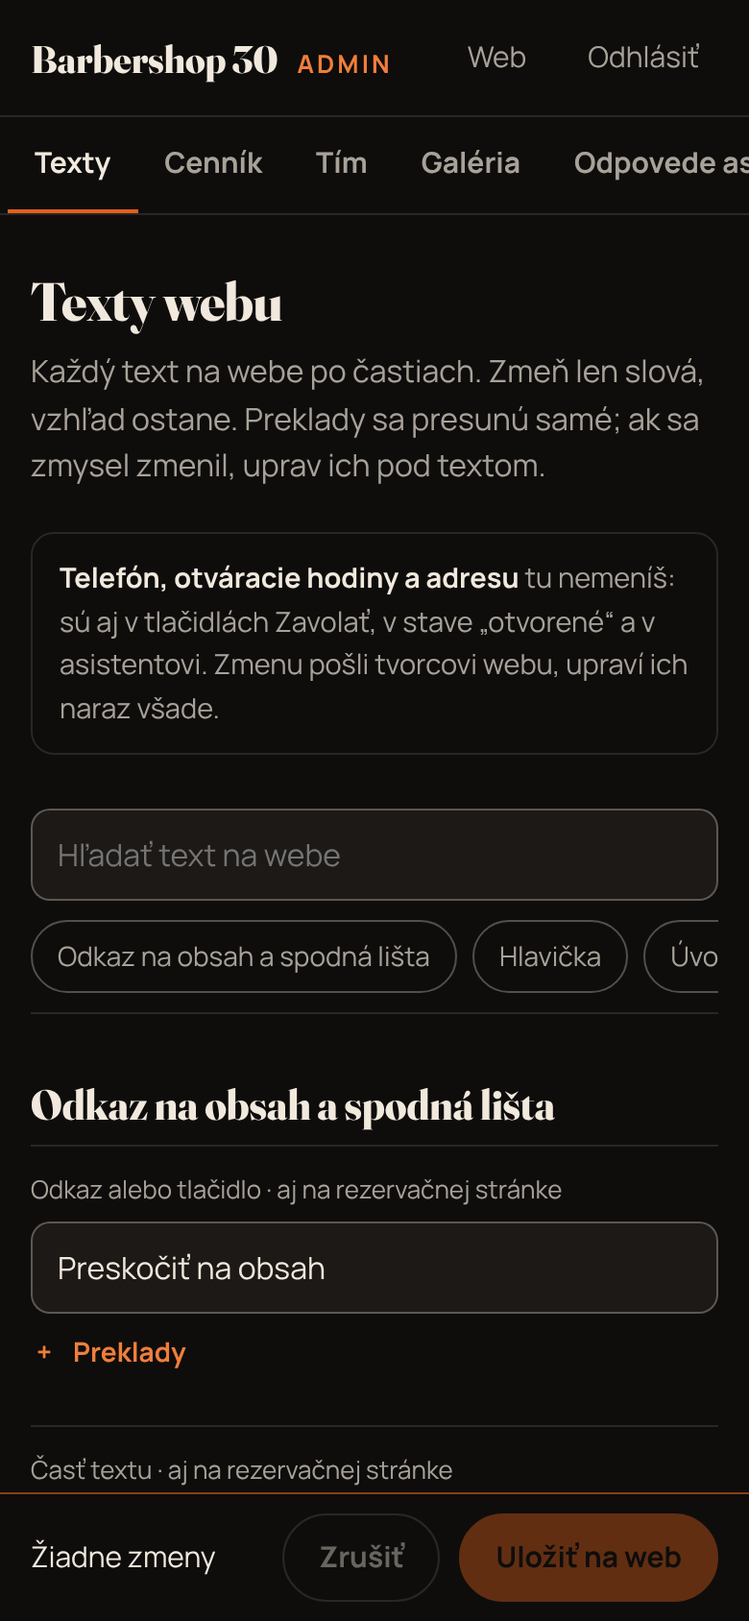
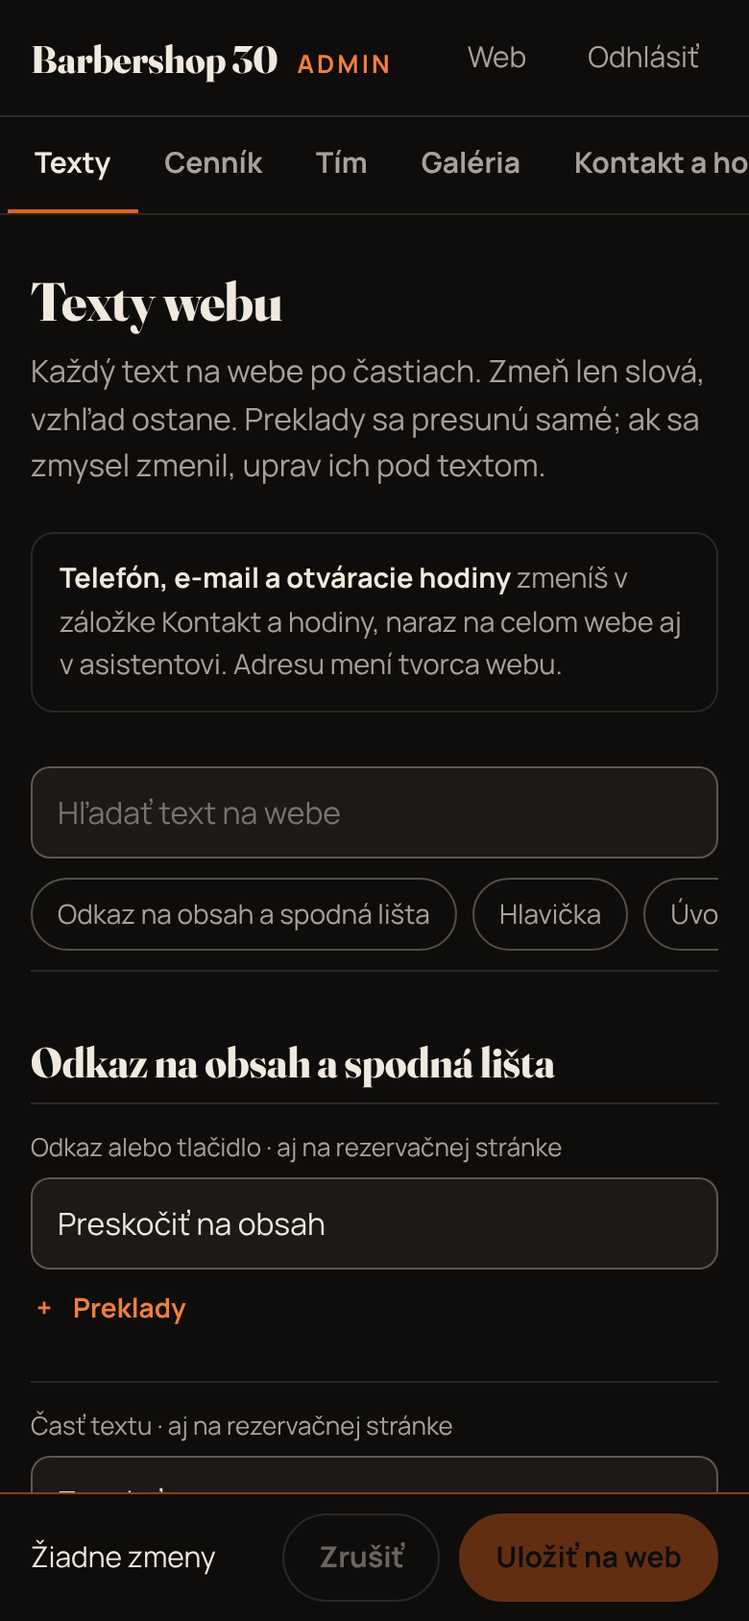
Barbershop 30, admin: kontakt a hodiny naraz na celom webe; kartička: odkaz na ochranu údajov
Záložka Kontakt a hodiny mení telefón, e-mail a otváracie hodiny vo všetkých súboroch
(web, preklady, živý stav, asistent aj jeho server, kartička, vizitka) a pred uložením
ukáže, čo sa zmení. Odkaz Ochrana osobných údajov na kartičke Barbershopu viedol na
neexistujúcu stránku. Validátor otázok berie hodiny z app.js.

diff --git a/barbershop-30/admin/admin.js b/barbershop-30/admin/admin.js
@@ -10,7 +10,8 @@
  *    (asistent/znalosti/barbershop.md) a odpovede asistenta s cenou dá na kontrolu (záložka Odpovede asistenta);
  *  - tím: oba súbory (karta podľa mena), fotky ako WebP a JPEG v dvoch šírkach, zoznam tímu v znalostiach a odpovediach;
  *  - galéria: fotka a popis;
- *  - odpovede asistenta: barbershop-otazky.json a jeho kópia pre web (assets/asistent-otazky.json).
+ *  - odpovede asistenta: barbershop-otazky.json a jeho kópia pre web (assets/asistent-otazky.json);
+ *  - kontakt a hodiny: telefón, e‑mail a otváracie hodiny naraz vo všetkých súboroch, kde sú (KONTAKT nižšie).
  * Odmeny a akcie vernostnej kartičky sú v admine kartičky (odkaz v záložke Kartička).
  */
 const OWNER = 'd8f5s88zjy-art', REPO = 'head-spa-30', BRANCH = 'main';
@@ -21,6 +22,13 @@ const LANGS = ['en', 'uk', 'hu', 'sr', 'pl', 'de', 'cs'];
 const LN = { en: 'Angličtina', uk: 'Ukrajinčina', hu: 'Maďarčina', sr: 'Srbčina', pl: 'Poľština', de: 'Nemčina', cs: 'Čeština' };
 const F = { index: P + 'index.html', rez: P + 'rezervacia.html', md: 'asistent/znalosti/barbershop.md', faq: 'asistent/znalosti/barbershop-otazky.json', faqWeb: P + 'assets/asistent-otazky.json' };
 const NB = ' ';
+/* súbory s telefónom, e‑mailom a otváracími hodinami Barbershopu: web, preklady, asistent (aj server), kartička,
+   vizitka, ukážky; app.js len riadok HOURS (živý stav „otvorené“), CLAUDE.md len hodiny (pravidlo pre asistenta) */
+const APP = P + 'assets/app.js';
+const KONTAKT = [F.index, F.rez, ...LANGS.map((l) => `${P}assets/i18n/${l}.json`), F.md, F.faq, F.faqWeb, APP,
+  P + 'assets/asistent.js', P + 'assets/objednavka.js', P + 'assets/asistent-ukazka.js', P + 'assets/karty.js', P + 'assets/barbershop30.vcf',
+  P + 'karta/index.html', P + 'karta/karta.js', 'vernost/karta/karta.js', 'vernost/lib/jadro.php', 'vernost/ochrana-udajov.html',
+  'asistent/lib/jadro.php', 'asistent/api.php', 'asistent/ochrana-udajov.html', 'CLAUDE.md'];
 const K_KLUC = 'b30.admin';
 
 const $ = (s, r = document) => r.querySelector(s);
@@ -170,11 +178,12 @@ function vstup(p, label, o = {}) {
 async function nacitaj() {
   const ref = await gh(`/git/ref/heads/${BRANCH}`);
   const sha = ref.object.sha;
-  const cesty = [F.index, F.rez, F.md, F.faq, ...LANGS.map((l) => `${P}assets/i18n/${l}.json`)];
+  const cesty = [...new Set([F.index, F.rez, F.md, F.faq, ...LANGS.map((l) => `${P}assets/i18n/${l}.json`), ...KONTAKT])];
   const obsah = await Promise.all(cesty.map((c) => readFile(c, sha)));
   const raw = {}; cesty.forEach((c, i) => { raw[c] = obsah[i]; });
   const i18n = {}; LANGS.forEach((l) => { i18n[l] = JSON.parse(raw[`${P}assets/i18n/${l}.json`]); });
   base = { sha, raw, i18n, faq: JSON.parse(raw[F.faq]) };
+  base.kontakt = kontaktZoSuborov(raw);
   priprav();
 }
 
@@ -207,13 +216,13 @@ function priprav() {
 }
 
 /* ---------------- záložky ---------------- */
-const TABY = { texty: 'Texty', cennik: 'Cenník', tim: 'Tím', galeria: 'Galéria', odpovede: 'Odpovede asistenta', karta: 'Kartička' };
+const TABY = { texty: 'Texty', cennik: 'Cenník', tim: 'Tím', galeria: 'Galéria', kontakt: 'Kontakt a hodiny', odpovede: 'Odpovede asistenta', karta: 'Kartička' };
 function kresli() {
   const nav = $('#tabs .in');
   nav.replaceChildren(...Object.entries(TABY).map(([k, n]) => h('button', { type: 'button', role: 'tab', 'aria-selected': String(k === tab), 'data-tab': k, onclick: () => { tab = k; ukaz(); } }, n)));
   const app = $('#app');
   app.replaceChildren(...Object.keys(TABY).map((k) => h('section', { class: 'tab', 'data-tab': k, hidden: k !== tab })));
-  textyTab(); cennikTab(); timTab(); galeriaTab(); odpovedeTab(); kartaTab();
+  textyTab(); cennikTab(); timTab(); galeriaTab(); kontaktTab(); odpovedeTab(); kartaTab();
   ukaz(); obnov();
 }
 function ukaz() {
@@ -238,7 +247,7 @@ function textyTab() {
   const chips = h('div', { class: 'chips' });
   const zoz = h('div');
   s.append(h('h1', {}, 'Texty webu'), h('p', { class: 'lead' }, 'Každý text na webe po častiach. Zmeň len slová, vzhľad ostane. Preklady sa presunú samé; ak sa zmysel zmenil, uprav ich pod textom.'),
-    h('p', { class: 'note' }, h('b', {}, 'Telefón, otváracie hodiny a adresu '), 'tu nemeníš: sú aj v tlačidlách Zavolať, v stave „otvorené“ a v asistentovi. Zmenu pošli tvorcovi webu, upraví ich naraz všade.'),
+    h('p', { class: 'note' }, h('b', {}, 'Telefón, e‑mail a otváracie hodiny '), 'zmeníš v záložke Kontakt a hodiny, naraz na celom webe aj v asistentovi. Adresu mení tvorca webu.'),
     h('div', { class: 'tools' }, hladaj, chips), zoz);
   const skup = new Map(), ramec = new Map();
   for (const x of base.ix.seg) {
@@ -414,6 +423,141 @@ function kartaTab() {
       h('li', {}, 'Odmeny (koľko bodov za čo) a akcie si nastavíš sám v admine kartičky.')));
 }
 
+/* ---------------- kontakt a hodiny ----------------
+   Telefón (mobil 09xx xxx xxx v tvaroch 0951 267 203, +421 951 267 203, +421951267203), e‑mail a otváracie hodiny
+   (Po–Pi a sobota, celé hodiny, nedeľa zatvorené) sa zmenia vo všetkých súboroch KONTAKT naraz. Hodiny: čas sa
+   mení podľa úlohy. Dvojica „od–do“ (9:00–19:00, od 9:00 do 19:00, 9:00 és 19:00 …) je pracovný deň alebo sobota;
+   osamotený čas zatvárania patrí svojmu dňu; osamotený čas otvárania, ktorý je pre oba dni rovnaký, sa pri
+   rozdielnych nových hodinách nedá určiť, dostane čas pracovných dní a ide na kontrolu. Iné časy (termíny v ukážke,
+   príklad v pokynoch asistenta) ostanú, ak sa nezhodujú s otváracími hodinami. */
+const telTvary = (intl) => { const d = intl.slice(4); return { intl, medz: `+421 ${d.slice(0, 3)} ${d.slice(3, 6)} ${d.slice(6)}`, lok: `0${d.slice(0, 3)} ${d.slice(3, 6)} ${d.slice(6)}`, holy: `0${d}` }; };
+function kontaktZoSuborov(raw) {
+  const ix = raw[F.index] || '';
+  const intl = (ix.match(/href="tel:(\+421\d{9})"/) || [])[1];
+  const email = (ix.match(/href="mailto:([^"?]+)"/) || [])[1] || '';
+  // hodiny z app.js (živý stav „otvorené“): Po–Pi rovnaké, sobota, nedeľa zatvorené; iné rozloženie admin nemení
+  const hm = (raw[APP] || '').match(/const HOURS = \{([^}]*)\};/);
+  let hod = null;
+  if (hm) {
+    const d = {};
+    for (const m of hm[1].matchAll(/(\d): (null|\[(\d+), (\d+)\])/g)) d[m[1]] = m[2] === 'null' ? null : [+m[3], +m[4]];
+    const w = d[1];
+    if (w && [2, 3, 4, 5].every((i) => d[i] && d[i][0] === w[0] && d[i][1] === w[1]) && d[6] && d[0] === null) hod = { w, s: d[6] };
+  }
+  return { tel: intl ? telTvary(intl) : null, email, hod };
+}
+function nahradHodiny(text, st, nv) {
+  const T = /(?<![\d.:])(0?)(\d{1,2}):00(?!\d|:\d)/g;
+  const tok = [...text.matchAll(T)].map((m) => ({ at: m.index, end: m.index + m[0].length, h: Number(m[2]), pad: m[1] === '0' }));
+  const role = new Array(tok.length).fill(null), nejasne = [];
+  const par = (a, b) => (a === st.w[0] && b === st.w[1] ? 'w' : a === st.s[0] && b === st.s[1] ? 's' : null);
+  for (let i = 0; i < tok.length - 1; i++) {
+    const medzi = text.slice(tok[i].end, tok[i + 1].at);
+    if (!/^[^\d<>{}\n]{1,16}$/.test(medzi)) continue;
+    const d = par(tok[i].h, tok[i + 1].h);
+    if (d) { role[i] = [d, 0]; role[i + 1] = [d, 1]; i++; }
+  }
+  tok.forEach((t, i) => {
+    if (role[i]) return;
+    const kand = [['w', 0], ['w', 1], ['s', 0], ['s', 1]].filter(([d, k]) => st[d][k] === t.h);
+    if (!kand.length) return;
+    if (new Set(kand.map(([d, k]) => nv[d][k])).size > 1) nejasne.push({ okolie: norm(text.slice(Math.max(0, t.at - 50), t.end + 25)) });
+    role[i] = kand[0];
+  });
+  let n = 0;
+  for (let i = tok.length - 1; i >= 0; i--) {
+    if (!role[i]) continue;
+    const [d, k] = role[i], v = nv[d][k];
+    if (v === tok[i].h) continue;
+    text = text.slice(0, tok[i].at) + (tok[i].pad ? String(v).padStart(2, '0') : String(v)) + ':00' + text.slice(tok[i].end);
+    n++;
+  }
+  return { text, n, nejasne };
+}
+function kontaktNahrad(cesta, text, k) {
+  const st = k.st, nejasne = [];
+  let n = 0;
+  if (text == null) return { text, n, nejasne };
+  const vsade = (a, b) => { const c = text.split(a).length - 1; if (c) { n += c; text = text.split(a).join(b); } };
+  if (k.tel) {
+    // medzery v čísle ostanú, aké boli (obyčajná alebo pevná)
+    const re = (x) => new RegExp(x.split(' ').map(reEsc).join('([ \\u00a0])'), 'g');
+    for (const t of ['medz', 'lok']) text = text.replace(re(st.tel[t]), (...m) => { n++; let i = 1; return k.tel[t].replace(/ /g, () => m[i++]); });
+    vsade(st.tel.intl, k.tel.intl); vsade(st.tel.holy, k.tel.holy);
+  }
+  if (k.email) vsade(st.email, k.email);
+  if (k.hod) {
+    if (cesta === APP) {
+      const w = `[${k.hod.w.join(', ')}]`;
+      text = text.replace(/const HOURS = \{[^}]*\};/, () => { n++; return `const HOURS = { 1: ${w}, 2: ${w}, 3: ${w}, 4: ${w}, 5: ${w}, 6: [${k.hod.s.join(', ')}], 0: null };`; })
+        .replace(/\(Po–Pi \d+–\d+, So \d+–\d+,/, `(Po–Pi ${k.hod.w[0]}–${k.hod.w[1]}, So ${k.hod.s[0]}–${k.hod.s[1]},`);
+    } else {
+      const r = nahradHodiny(text, st.hod, k.hod);
+      text = r.text; n += r.n; r.nejasne.forEach((x) => nejasne.push({ cesta, ...x }));
+    }
+  }
+  return { text, n, nejasne };
+}
+let kp = null;   // polia záložky Kontakt a hodiny
+function kontaktNove() {
+  if (!kp || !base || !base.kontakt) return null;
+  const st = base.kontakt, z = { popis: [], st };
+  const tel = norm(kp.tel.value), email = norm(kp.email.value);
+  if (st.tel && tel !== st.tel.lok) {
+    const d = tel.replace(/\D/g, '');
+    if (!/^09\d{8}$/.test(d)) z.chyba = 'Telefón napíš ako mobil v tvare 0951 267 203. Iné číslo (pevnú linku) zmení tvorca webu.';
+    else if (`0${d.slice(1)}` !== st.tel.holy) { z.tel = telTvary(`+421${d.slice(1)}`); z.popis.push(`Kontakt: telefón ${z.tel.lok}`); }
+  }
+  if (st.email && email !== st.email) {
+    if (!/^[^\s@"<>]+@[^\s@"<>]+\.[a-z]{2,}$/i.test(email)) z.chyba = 'E‑mail nevyzerá správne (napr. info@barbershop30.sk).';
+    else { z.email = email; z.popis.push(`Kontakt: e‑mail ${email}`); }
+  }
+  if (st.hod && kp.wOd) {
+    const hod = { w: [+kp.wOd.value, +kp.wDo.value], s: [+kp.sOd.value, +kp.sDo.value] };
+    if (hod.w[0] >= hod.w[1] || hod.s[0] >= hod.s[1]) z.chyba = 'Čas „od“ musí byť skôr ako čas „do“.';
+    else if (String(hod.w) !== String(st.hod.w) || String(hod.s) !== String(st.hod.s)) { z.hod = hod; z.popis.push(`Kontakt: hodiny Po–Pi ${hod.w[0]}:00–${hod.w[1]}:00, So ${hod.s[0]}:00–${hod.s[1]}:00`); }
+  }
+  if (z.chyba) z.popis = ['Kontakt: oprav údaje'];
+  return z.popis.length ? z : null;
+}
+let nahladCas = 0;
+function kontaktNahlad() {
+  clearTimeout(nahladCas);
+  nahladCas = setTimeout(() => {
+    const k = kontaktNove();
+    kp.warn.hidden = !(k && k.chyba); kp.warn.textContent = (k && k.chyba) || '';
+    kp.nahlad.replaceChildren();
+    if (k && !k.chyba) {
+      let spolu = 0; const sub = [], nej = [];
+      for (const c of KONTAKT) { const r = kontaktNahrad(c, base.raw[c], k); if (r.n) { spolu += r.n; sub.push(`${c.replace(P, '')} (${r.n})`); } nej.push(...r.nejasne.filter((x) => x.cesta !== F.faqWeb)); }
+      kp.nahlad.append(h('div', { class: 'note' }, h('b', {}, `Zmení sa ${spolu} ${spolu === 1 ? 'miesto' : spolu < 5 ? 'miesta' : 'miest'} v ${sub.length} súboroch.`),
+        h('details', { class: 'tr' }, h('summary', {}, 'Ktoré súbory'), h('p', {}, sub.join(', ')))));
+      if (nej.length) kp.nahlad.append(h('div', { class: 'note' }, h('b', {}, 'Na kontrolu: '), `tieto vety spomínajú čas otvorenia bez dňa, dostanú čas pracovných dní (${k.hod.w[0]}:00). Ulož zmenu a potom ich oprav v záložke Odpovede asistenta alebo daj vedieť tvorcovi webu.`,
+        h('ul', {}, nej.slice(0, 12).map((x) => h('li', {}, `…${x.okolie}…`)))));
+    }
+    obnov();
+  }, 150);
+}
+function kontaktTab() {
+  const s = sec('kontakt'), st = base.kontakt;
+  s.append(h('h1', {}, 'Kontakt a hodiny'), h('p', { class: 'lead' }, 'Telefón, e‑mail a otváracie hodiny sú na webe na mnohých miestach: tlačidlá Zavolať, pätička, živý stav „otvorené“, vizitka, kartička aj odpovede asistenta Barber vo všetkých jazykoch. Tu ich zmeníš naraz všade.'));
+  const pole2 = (el, popis, pozn, orig) => { el.addEventListener('input', () => { el.classList.toggle('changed', norm(el.value) !== orig); kontaktNahlad(); }); return h('div', { class: 'f' }, h('label', {}, popis, pozn ? h('small', {}, pozn) : null), el); };
+  kp = { tel: h('input', { type: 'tel', inputmode: 'tel', autocomplete: 'off' }), email: h('input', { type: 'email', autocomplete: 'off', spellcheck: 'false' }), warn: h('p', { class: 'warn', hidden: true, role: 'status' }), nahlad: h('div') };
+  kp.tel.value = st.tel ? st.tel.lok : ''; kp.email.value = st.email;
+  s.append(st.tel ? pole2(kp.tel, 'Telefón', 'mobil, napr. 0951 267 203', st.tel.lok) : h('p', { class: 'warn' }, 'Telefón sa na webe nenašiel v očakávanom tvare, zmení ho tvorca webu.'),
+    st.email ? pole2(kp.email, 'E‑mail', null, st.email) : null);
+  if (st.hod) {
+    const vyber = (v, od) => { const el = h('select', { 'aria-label': od }); for (let i = 5; i <= 23; i++) el.append(h('option', { value: i }, `${i}:00`)); el.value = String(v); el.addEventListener('change', () => { el.classList.toggle('changed', +el.value !== v); kontaktNahlad(); }); return el; };
+    kp.wOd = vyber(st.hod.w[0], 'Pondelok až piatok od'); kp.wDo = vyber(st.hod.w[1], 'Pondelok až piatok do');
+    kp.sOd = vyber(st.hod.s[0], 'Sobota od'); kp.sDo = vyber(st.hod.s[1], 'Sobota do');
+    s.append(h('h2', {}, 'Otváracie hodiny'),
+      h('div', { class: 'f' }, h('label', {}, 'Pondelok až piatok'), h('div', { class: 'row' }, h('div', { class: 'f' }, h('label', { class: 'mini' }, 'od'), kp.wOd), h('div', { class: 'f' }, h('label', { class: 'mini' }, 'do'), kp.wDo))),
+      h('div', { class: 'f' }, h('label', {}, 'Sobota'), h('div', { class: 'row' }, h('div', { class: 'f' }, h('label', { class: 'mini' }, 'od'), kp.sOd), h('div', { class: 'f' }, h('label', { class: 'mini' }, 'do'), kp.sDo))),
+      h('p', { class: 'kind' }, 'Nedeľa zatvorené. Len celé hodiny. Inú zmenu (nedeľa, prestávka, sviatky) a novú adresu pošli tvorcovi webu.'));
+  } else s.append(h('p', { class: 'warn' }, 'Otváracie hodiny na webe nemajú jednoduché rozloženie (Po–Pi rovnako, sobota, nedeľa zatvorené), zmení ich tvorca webu.'));
+  s.append(kp.warn, kp.nahlad, h('p', { class: 'note' }, h('b', {}, 'Nezabudni: '), 'telefón a hodiny zmeň aj v rezervačnom systéme na barbershop30.sk a na Google (profil firmy).'));
+}
+
 /* ---------------- fotky: zmenšenie v prehliadači na WebP a JPEG ---------------- */
 async function priprauFoto(subor, sirky) {
   const url = URL.createObjectURL(subor);
@@ -437,6 +581,8 @@ function zoznamZmien() {
   for (const p of polia) if (zmenene(p)) z.push(p.label);
   tim.forEach((m) => { if (m.nove && m.p && norm(m.p.meno.el && m.p.meno.el.value)) z.push(`Tím: nový člen ${norm(m.p.meno.el.value)}`); if (m.zmaz) z.push(`Tím: odstrániť ${m.meno}`); if (m.foto && !m.nove) z.push(`Tím: nová fotka ${m.meno}`); });
   gal.forEach((g) => { if (g.foto) z.push(`Galéria: nová fotka ${short(g.alt, 30)}`); });
+  const k = kontaktNove();
+  if (k) z.push(...k.popis);
   return z;
 }
 function obnov() {
@@ -620,11 +766,18 @@ function zostav() {
   for (const f of [F.index, F.rez]) if (zm[f].length) html[f] = nahrad(html[f], zm[f]);
   zostavaTexty = new Set([...rozober(html[F.index]).seg, ...rozober(html[F.rez]).seg].map((x) => norm(x.text)));
   for (const [stary, novy, tr] of presuny) prekladyPresun(i18n, stary, novy, tr);
-  for (const f of [F.index, F.rez]) if (html[f] !== base.raw[f]) subory[f] = { text: html[f] };
-  for (const l of LANGS) { const s = JSON.stringify(i18n[l]); if (s !== JSON.stringify(base.i18n[l])) subory[`${P}assets/i18n/${l}.json`] = { text: s }; }
-  if (md !== base.raw[F.md]) subory[F.md] = { text: md };
-  if (faqZmena) { subory[F.faq] = { text: JSON.stringify(faq, null, 1) + '\n' }; subory[F.faqWeb] = { text: JSON.stringify(faq) + '\n' }; }
-  return { subory, nove, faq };
+  const out = { [F.index]: html[F.index], [F.rez]: html[F.rez], [F.md]: md };
+  for (const l of LANGS) { const s = JSON.stringify(i18n[l]); out[`${P}assets/i18n/${l}.json`] = s !== JSON.stringify(base.i18n[l]) ? s : base.raw[`${P}assets/i18n/${l}.json`]; }
+  if (faqZmena) { out[F.faq] = JSON.stringify(faq, null, 1) + '\n'; out[F.faqWeb] = JSON.stringify(faq) + '\n'; }
+  // kontakt a hodiny: až nakoniec, v hotových textoch všetkých súborov (aj v práve zmenených)
+  const k = kontaktNove();
+  if (k && k.chyba) throw Object.assign(new Error(k.chyba), { user: true });
+  if (k) {
+    for (const c of KONTAKT) if (!(c in out)) out[c] = base.raw[c];
+    for (const c of KONTAKT) out[c] = kontaktNahrad(c, out[c], k).text;
+  }
+  for (const [c, t] of Object.entries(out)) if (t !== base.raw[c]) subory[c] = { text: t };
+  return { subory, nove, faq: k ? JSON.parse(out[F.faq]) : faq };
 }
 
 /* tím v znalostiach asistenta a v odpovediach: zoznam mien, počet a odpovede o jednotlivých členoch */
@@ -637,7 +790,7 @@ function timDoZnalosti(faq, zmenMd) {
   const adrian = (m) => (m === 'Adrián' ? ' (v rezervačnom systéme Adrian)' : '');
   zmenMd((md) => md.replace(/^Barberi: .*$/m, `Barberi: ${barberi.map((m) => m + adrian(m)).join(', ')}.${barberky.length ? ` ${barberky.length > 1 ? 'Barberky' : 'Barberka'}: ${barberky.join(', ')}.` : ''}`));
   const REZ = 'https://www.barbershop30.sk/rezervacia';
-  const TEL = 'Zavolaj nám na 0951 267 203, v pracovné dni od 9:00 do 19:00 telefón vždy zdvihneme.';
+  const TEL = (faq.otazky.map((o) => (o.a.match(/Zavolaj nám na [^.]*?telefón vždy zdvihneme\./) || [])[0]).find(Boolean)) || `Zavolaj nám na ${base.kontakt.tel ? base.kontakt.tel.lok : ''}.`;
   const nastav = (id, a) => { const o = faq.otazky.find((x) => x.id === id); if (o) o.a = a; };
   nastav('tim', `V tíme sú barberi ${zoznam(barberi)}${barberky.length ? ` a ${barberky.length > 1 ? 'barberky' : 'barberka'} ${zoznam(barberky)}` : ''}. Svojho človeka si vyberieš v rezervácii.`);
   nastav('kolko-barberov', `Na webe je predstavených ${clenovia.length} ľudí: ${barberi.length} ${barberi.length === 1 ? 'barber' : barberi.length < 5 ? 'barberi' : 'barberov'}${barberky.length ? ` a ${barberky.length === 1 ? 'barberka ' + barberky[0] : barberky.length + ' barberky'}` : ''}. Strihá sa v 8 kreslách v troch miestnostiach.`);

diff --git a/barbershop-30/karta/karta.js b/barbershop-30/karta/karta.js
@@ -8,6 +8,8 @@ import { qrSvg } from './qr.js';
 
 const D = document.documentElement.dataset;
 const API = (/^(localhost|127\.0\.0\.1)$/.test(location.hostname) && D.apiLokal) || D.api || '../api/';
+// ochrana údajov je pri API (spoločná pre obe prevádzky), aj keď je kartička na webe Barbershopu
+const OCHRANA = new URL('../ochrana-udajov.html', new URL(API, location.href)).href;
 const P = D.prevadzka || '';                       // prevádzka stránky (web Barbershopu); bez nej len kartička z odkazu
 const NAZOV = { barbershop: 'Barbershop 30', headspa: 'HEAD SPA 30' }[P] || '';
 const $obsah = document.getElementById('obsah');
@@ -86,7 +88,7 @@ function zalozenie() {
     el('label', { class: 'prepinac' }, chcem, el('span', {}, 'Áno, chcem vernostnú kartičku. Údaje použijete len na ňu.')),
     el('label', { class: 'prepinac' }, spravy, el('span', {}, 'Chcem dostávať správy o akciách. Môžem to kedykoľvek vypnúť.')),
     pasca, el('div', { class: 'tlacidla' }, tl), sprava,
-    el('p', { class: 'pozn' }, el('a', { href: new URL('../ochrana-udajov.html', new URL(API, location.href)).href, target: '_blank', rel: 'noopener' }, 'Ochrana údajov')));
+    el('p', { class: 'pozn' }, el('a', { href: OCHRANA, target: '_blank', rel: 'noopener' }, 'Ochrana údajov')));
   const [telText, telHref] = TELEFON[P] || ['', ''];
   const mimo = () => box.replaceChildren(el('h2', { id: 'zaloz-h' }, 'Kartičky práve spúšťame'),
     el('p', { class: 'pozn' }, 'Kartičku ti zatiaľ založíme na recepcii.' + (telText ? ` Zavolaj nám na ${telText}.` : '')),
@@ -186,7 +188,7 @@ function vykresli(d, zPamate) {
       zPamate ? null : zrusenie(d)),
     el('div', { class: 'pata' },
       el('span', {}, d.nazov, ' · ', el('a', { href: `tel:${d.tel}` }, d.tel_text)),
-      el('span', {}, el('a', { href: d.web, rel: 'noopener' }, 'Webová stránka'), ' · ', el('a', { href: '../ochrana-udajov.html' }, 'Ochrana osobných údajov'))),
+      el('span', {}, el('a', { href: d.web, rel: 'noopener' }, 'Webová stránka'), ' · ', el('a', { href: OCHRANA }, 'Ochrana osobných údajov'))),
   ];
   $obsah.replaceChildren(...casti.filter(Boolean));
   $obsah.setAttribute('aria-busy', 'false');

diff --git a/vernost/karta/karta.js b/vernost/karta/karta.js
@@ -8,6 +8,8 @@ import { qrSvg } from './qr.js';
 
 const D = document.documentElement.dataset;
 const API = (/^(localhost|127\.0\.0\.1)$/.test(location.hostname) && D.apiLokal) || D.api || '../api/';
+// ochrana údajov je pri API (spoločná pre obe prevádzky), aj keď je kartička na webe Barbershopu
+const OCHRANA = new URL('../ochrana-udajov.html', new URL(API, location.href)).href;
 const P = D.prevadzka || '';                       // prevádzka stránky (web Barbershopu); bez nej len kartička z odkazu
 const NAZOV = { barbershop: 'Barbershop 30', headspa: 'HEAD SPA 30' }[P] || '';
 const $obsah = document.getElementById('obsah');
@@ -86,7 +88,7 @@ function zalozenie() {
     el('label', { class: 'prepinac' }, chcem, el('span', {}, 'Áno, chcem vernostnú kartičku. Údaje použijete len na ňu.')),
     el('label', { class: 'prepinac' }, spravy, el('span', {}, 'Chcem dostávať správy o akciách. Môžem to kedykoľvek vypnúť.')),
     pasca, el('div', { class: 'tlacidla' }, tl), sprava,
-    el('p', { class: 'pozn' }, el('a', { href: new URL('../ochrana-udajov.html', new URL(API, location.href)).href, target: '_blank', rel: 'noopener' }, 'Ochrana údajov')));
+    el('p', { class: 'pozn' }, el('a', { href: OCHRANA, target: '_blank', rel: 'noopener' }, 'Ochrana údajov')));
   const [telText, telHref] = TELEFON[P] || ['', ''];
   const mimo = () => box.replaceChildren(el('h2', { id: 'zaloz-h' }, 'Kartičky práve spúšťame'),
     el('p', { class: 'pozn' }, 'Kartičku ti zatiaľ založíme na recepcii.' + (telText ? ` Zavolaj nám na ${telText}.` : '')),
@@ -186,7 +188,7 @@ function vykresli(d, zPamate) {
       zPamate ? null : zrusenie(d)),
     el('div', { class: 'pata' },
       el('span', {}, d.nazov, ' · ', el('a', { href: `tel:${d.tel}` }, d.tel_text)),
-      el('span', {}, el('a', { href: d.web, rel: 'noopener' }, 'Webová stránka'), ' · ', el('a', { href: '../ochrana-udajov.html' }, 'Ochrana osobných údajov'))),
+      el('span', {}, el('a', { href: d.web, rel: 'noopener' }, 'Webová stránka'), ' · ', el('a', { href: OCHRANA }, 'Ochrana osobných údajov'))),
   ];
   $obsah.replaceChildren(...casti.filter(Boolean));
   $obsah.setAttribute('aria-busy', 'false');

diff --git a/barbershop-30/admin/index.html b/barbershop-30/admin/index.html
@@ -42,9 +42,11 @@ h2{font-family:'Fraunces',Georgia,serif;font-weight:800;font-size:22px;line-heig
 .f{margin:0 0 14px}
 .f>label{display:block;font-weight:700;font-size:14.5px;margin:0 0 6px}
 .f>label small{font-weight:400;color:var(--muted);margin-left:6px}
-input[type=text],input[type=number],input[type=password],input[type=search],textarea{width:100%;min-height:48px;background:var(--field);color:var(--text);border:1px solid var(--line-2);border-radius:10px;padding:11px 13px;font:16px/1.5 'Manrope',sans-serif}
+.f>label.mini{font-weight:400;color:var(--muted);font-size:13.5px;margin-bottom:4px}
+input[type=text],input[type=number],input[type=password],input[type=search],input[type=tel],input[type=email],select,textarea{width:100%;min-height:48px;background:var(--field);color:var(--text);border:1px solid var(--line-2);border-radius:10px;padding:11px 13px;font:16px/1.5 'Manrope',sans-serif}
 textarea{resize:vertical;display:block;min-height:48px;field-sizing:content;max-height:60vh}
-input:focus,textarea:focus{outline:none;border-color:var(--lamp)}
+input:focus,select:focus,textarea:focus{outline:none;border-color:var(--lamp)}
+select{appearance:none;background-image:linear-gradient(45deg,transparent 50%,var(--lamp-2) 50%),linear-gradient(135deg,var(--lamp-2) 50%,transparent 50%);background-position:calc(100% - 20px) 50%,calc(100% - 14px) 50%;background-size:6px 6px;background-repeat:no-repeat;padding-right:36px}
 .changed{border-color:var(--lamp)!important;background-color:#26180f!important}
 .row{display:grid;gap:0 12px;grid-template-columns:repeat(auto-fit,minmax(140px,1fr))}
 .btn{display:inline-flex;align-items:center;justify-content:center;gap:8px;min-height:46px;padding:0 18px;border:1px solid var(--lamp);background:var(--lamp);color:var(--bg);font-weight:700;font-size:15px;border-radius:999px;cursor:pointer;text-decoration:none;white-space:nowrap}

diff --git a/barbershop-30/docs/CHECKS.md b/barbershop-30/docs/CHECKS.md
@@ -498,3 +498,25 @@ Emulácia prehliadača proti falošnému rezervačnému systému; živý systém
 - Neoverené: skutočný GitHub (kľúč nemám a do `main` sa bez súhlasu neukladá), skutočný telefón.
 - Pozor: admin číta a ukladá `main`. Kým web Barbershopu nie je zverejnený v `main`, admin nemá čo upravovať.
 
+## 25. Admin: Kontakt a hodiny, odkaz na ochranu údajov kartičky (2026‑10‑24)
+
+- Zadávateľ: dokončiť, čo predtým nebolo hotové. V admine chýbala zmena telefónu, e‑mailu a hodín (bola len poznámka
+  „pošli tvorcovi webu“), lebo sú na mnohých miestach.
+- Súpis: telefón vo vyše 20 súboroch v troch tvaroch, hodiny 341 dvojíc „od–do“ v 8 jazykoch, JSON‑LD, app.js HOURS,
+  server asistenta, kartička, vizitka, CLAUDE.md. Osamotené časy v odpovediach asistenta: 3 vety s časom otvorenia
+  bez dňa („otvárame o 9:00“), 2 s „19:00“, 1 so „14:00“; ďalej termíny v ukážke objednávky a príklad v pokynoch
+  asistenta (tie sa menia, len ak sa zhodujú s otváracími hodinami).
+- Záložka Kontakt a hodiny: telefón (mobil 09xx xxx xxx), e‑mail, Po–Pi a sobota od–do (celé hodiny). Náhľad
+  „Zmení sa N miest v M súboroch“ a vety s časom otvorenia bez dňa na kontrolu, keď sa otvorenie Po–Pi a v sobotu
+  rozíde. Zmena sa robí v hotových textoch až po ostatných úpravách, v jednom commite.
+- `node source/tools/admin-test.mjs`: 100 OK. Skúška: telefón 0905 123 456, e‑mail, Po–Pi 9–20, So 10–14.
+  Starý telefón a e‑mail nikde; tel: odkazy, JSON‑LD, vizitka, kartička (HEAD SPA nezmenená, kópie karta.js
+  rovnaké), app.js HOURS, preklady (kľúč aj preklad, maďarčina, nemčina), odpovede a znalosti asistenta, pokyny
+  asistenta (príklad termínov nezmenený), CLAUDE.md, ukážka objednávky nezmenená; PHP (`php -l`) a JS (`node
+  --check`) bez chyby syntaxe; web po zmene: všetky Zavolať na nové číslo, angličtina, tabuľa hodín v sobotu 10–14.
+- `source/tools/otazky.mjs` berie povolené časy z app.js (inak by po zmene hodín hlásil chybu).
+- Kartička na webe Barbershopu: odkaz „Ochrana osobných údajov“ pod kartičkou viedol na `barbershop-30/ochrana-udajov.html`
+  (neexistuje). Oba odkazy teraz vedú na spoločnú stránku pri API kartičiek. `vernost/testy/spusti.sh` 118 OK
+  (nová kontrola: odkaz existuje, odpoveď 200).
+- Neoverené: skutočný GitHub a skutočný telefón.
+

diff --git a/barbershop-30/docs/POSTUP.md b/barbershop-30/docs/POSTUP.md
@@ -33,8 +33,9 @@ Rozpracované (požiadavky z 2026‑10‑22):
 4. HOTOVÉ (CHECKS 24): Admin pre Lajka: aby mohol meniť texty, fotky (a odmeny kartičky) sám, ako administrátor.
    `admin/` (naostro `https://d8f5s88zjy-art.github.io/head-spa-30/barbershop-30/admin/` po zverejnení), prihlásenie
    kľúčom GitHub, uloženie jedným commitom do `main`. Texty, cenník, tím (aj nový člen a fotka), galéria, odpovede
-   asistenta; jedna zmena upraví obe stránky, preklady, znalosti asistenta a odpovede. Telefón, hodiny a adresu
-   admin zámerne nemení (sú aj v odkazoch tel:, živom stave a asistentovi). Odmeny kartičky: admin kartičky.
+   asistenta; jedna zmena upraví obe stránky, preklady, znalosti asistenta a odpovede. Kontakt a hodiny (telefón,
+   e‑mail, Po–Pi a sobota) naraz vo všetkých súboroch (2026‑10‑24, CHECKS 25); adresu a nedeľu mení tvorca webu.
+   Odmeny kartičky: admin kartičky.
    Kľúč pre Lajka vytvorí zadávateľ na účte webu (postup na prihlasovacej stránke adminu).
 5. HOTOVÉ (pozri Denník a CHECKS 22): web na telefóne pôsobí ako PowerPoint prezentácia. Chce živý web na telefóne, každá
    animácia so silným háčikom, aby zákazník ostal a objednal sa. Ikony zmenšiť, aby tak nebili do očí.
@@ -57,6 +58,12 @@ Testy `vernost/testy/e2e.mjs` očakávajú `/vernost/karta/` pre barbershop (ria
 - kľúč GitHub pre Lajka do adminu webu (vytvára sa na účte webu, až po zverejnení do `main`).
 
 ## Denník
+
+- 2026‑10‑24: dokončené nedokončené veci: admin Kontakt a hodiny (telefón, e‑mail, hodiny naraz v 27 súboroch vrátane
+  servera asistenta, kartičky a CLAUDE.md; test 100 OK), odkaz Ochrana osobných údajov na kartičke Barbershopu viedol
+  na neexistujúcu stránku (opravené, vernost 118 OK), validátor otázok berie hodiny z app.js.
+  Zadávateľovi ukradli iPhone, na ktorom je prihlásený do Claude: kým nepotvrdí z bezpečného zariadenia, že sa
+  odhlásil zo všetkých zariadení, nič sa nezverejňuje ani neposiela von.
 
 - 2026‑10‑22: admin pre Lajka (`admin/`, `source/tools/admin-test.mjs` 63 OK s falošným GitHubom): texty, cenník,
   tím, galéria, odpovede asistenta, odkazy na admin kartičky. Pages kopíruje `admin/`, robots ho vylučuje.

diff --git a/barbershop-30/README.md b/barbershop-30/README.md
@@ -114,8 +114,11 @@ fotky, film, videá). Relatívne cesty, dá sa nasadiť do koreňa domény aj do
   sa presunie, starý ostane, kým ho niečo používa), znalosti asistenta `../asistent/znalosti/barbershop.md`,
   časté otázky `barbershop-otazky.json` a ich kópiu pre web. Odpovede so starou cenou dá na kontrolu (jedinečnú
   cenu prepíše sám) a uloženie zastaví, kým niektorá odpoveď hovorí cenu, ktorá v cenníku nie je. Fotky zmenší
-  v prehliadači (WebP a JPEG, tím 480/820, galéria 640/1080/1600). Telefón, hodiny a adresu admin nemení (sú aj
-  v odkazoch tel:, živom stave a asistentovi), tie mení tvorca webu. Test: `node source/tools/admin-test.mjs`
+  v prehliadači (WebP a JPEG, tím 480/820, galéria 640/1080/1600). Záložka Kontakt a hodiny zmení telefón (mobil),
+  e‑mail a otváracie hodiny (Po–Pi a sobota, celé hodiny) naraz vo všetkých súboroch zoznamu `KONTAKT` v `admin.js`
+  (web, preklady, app.js HOURS, asistent aj jeho server, kartička, vizitka, ukážky, pravidlo v CLAUDE.md); pred
+  uložením ukáže počet miest a vety s časom otvorenia bez dňa na kontrolu. Adresu a nedeľu mení tvorca webu.
+  `source/tools/otazky.mjs` berie povolené časy z app.js. Test: `node source/tools/admin-test.mjs`
   (falošný GitHub v pamäti, nič nejde von). Funguje až po zverejnení webu v `main` (číta súbory odtiaľ).
 
 ## Nasadenie
